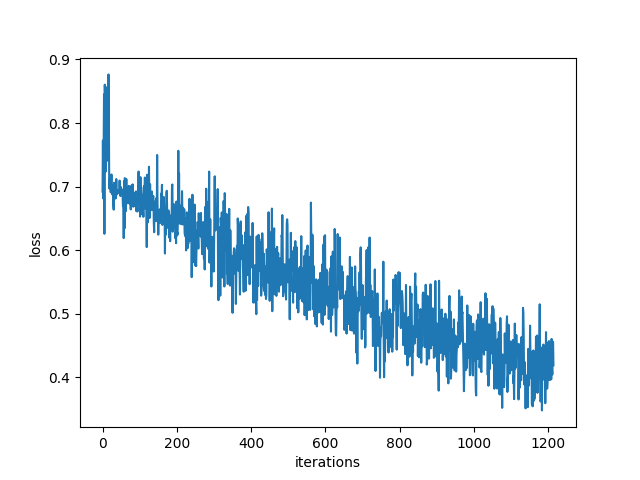
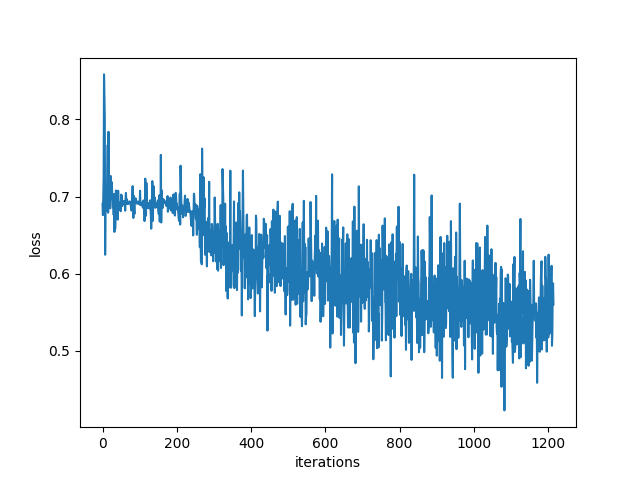
Reduce learning rate a litte

diff --git a/Nick_tests/replicate/gender_model.py b/Nick_tests/replicate/gender_model.py
@@ -233,8 +233,8 @@ print("defined model")
 model.type(dtype)
 model.train()
 loss_fn = nn.CrossEntropyLoss().type(dtype)
-# 1e-1 too high
-optimizer = optim.Adam(model.parameters(), lr=1e-4,weight_decay=5e-3)
+# between 8e-3 and 5e-3 
+optimizer = optim.Adam(model.parameters(), lr=1e-4,weight_decay=8e-3)
 print("start training")
 loss_history,acc_history,val_acc_history=train(train_loader,val_loader, model, loss_fn, optimizer, dtype,num_epochs=15, print_every=17)
 
